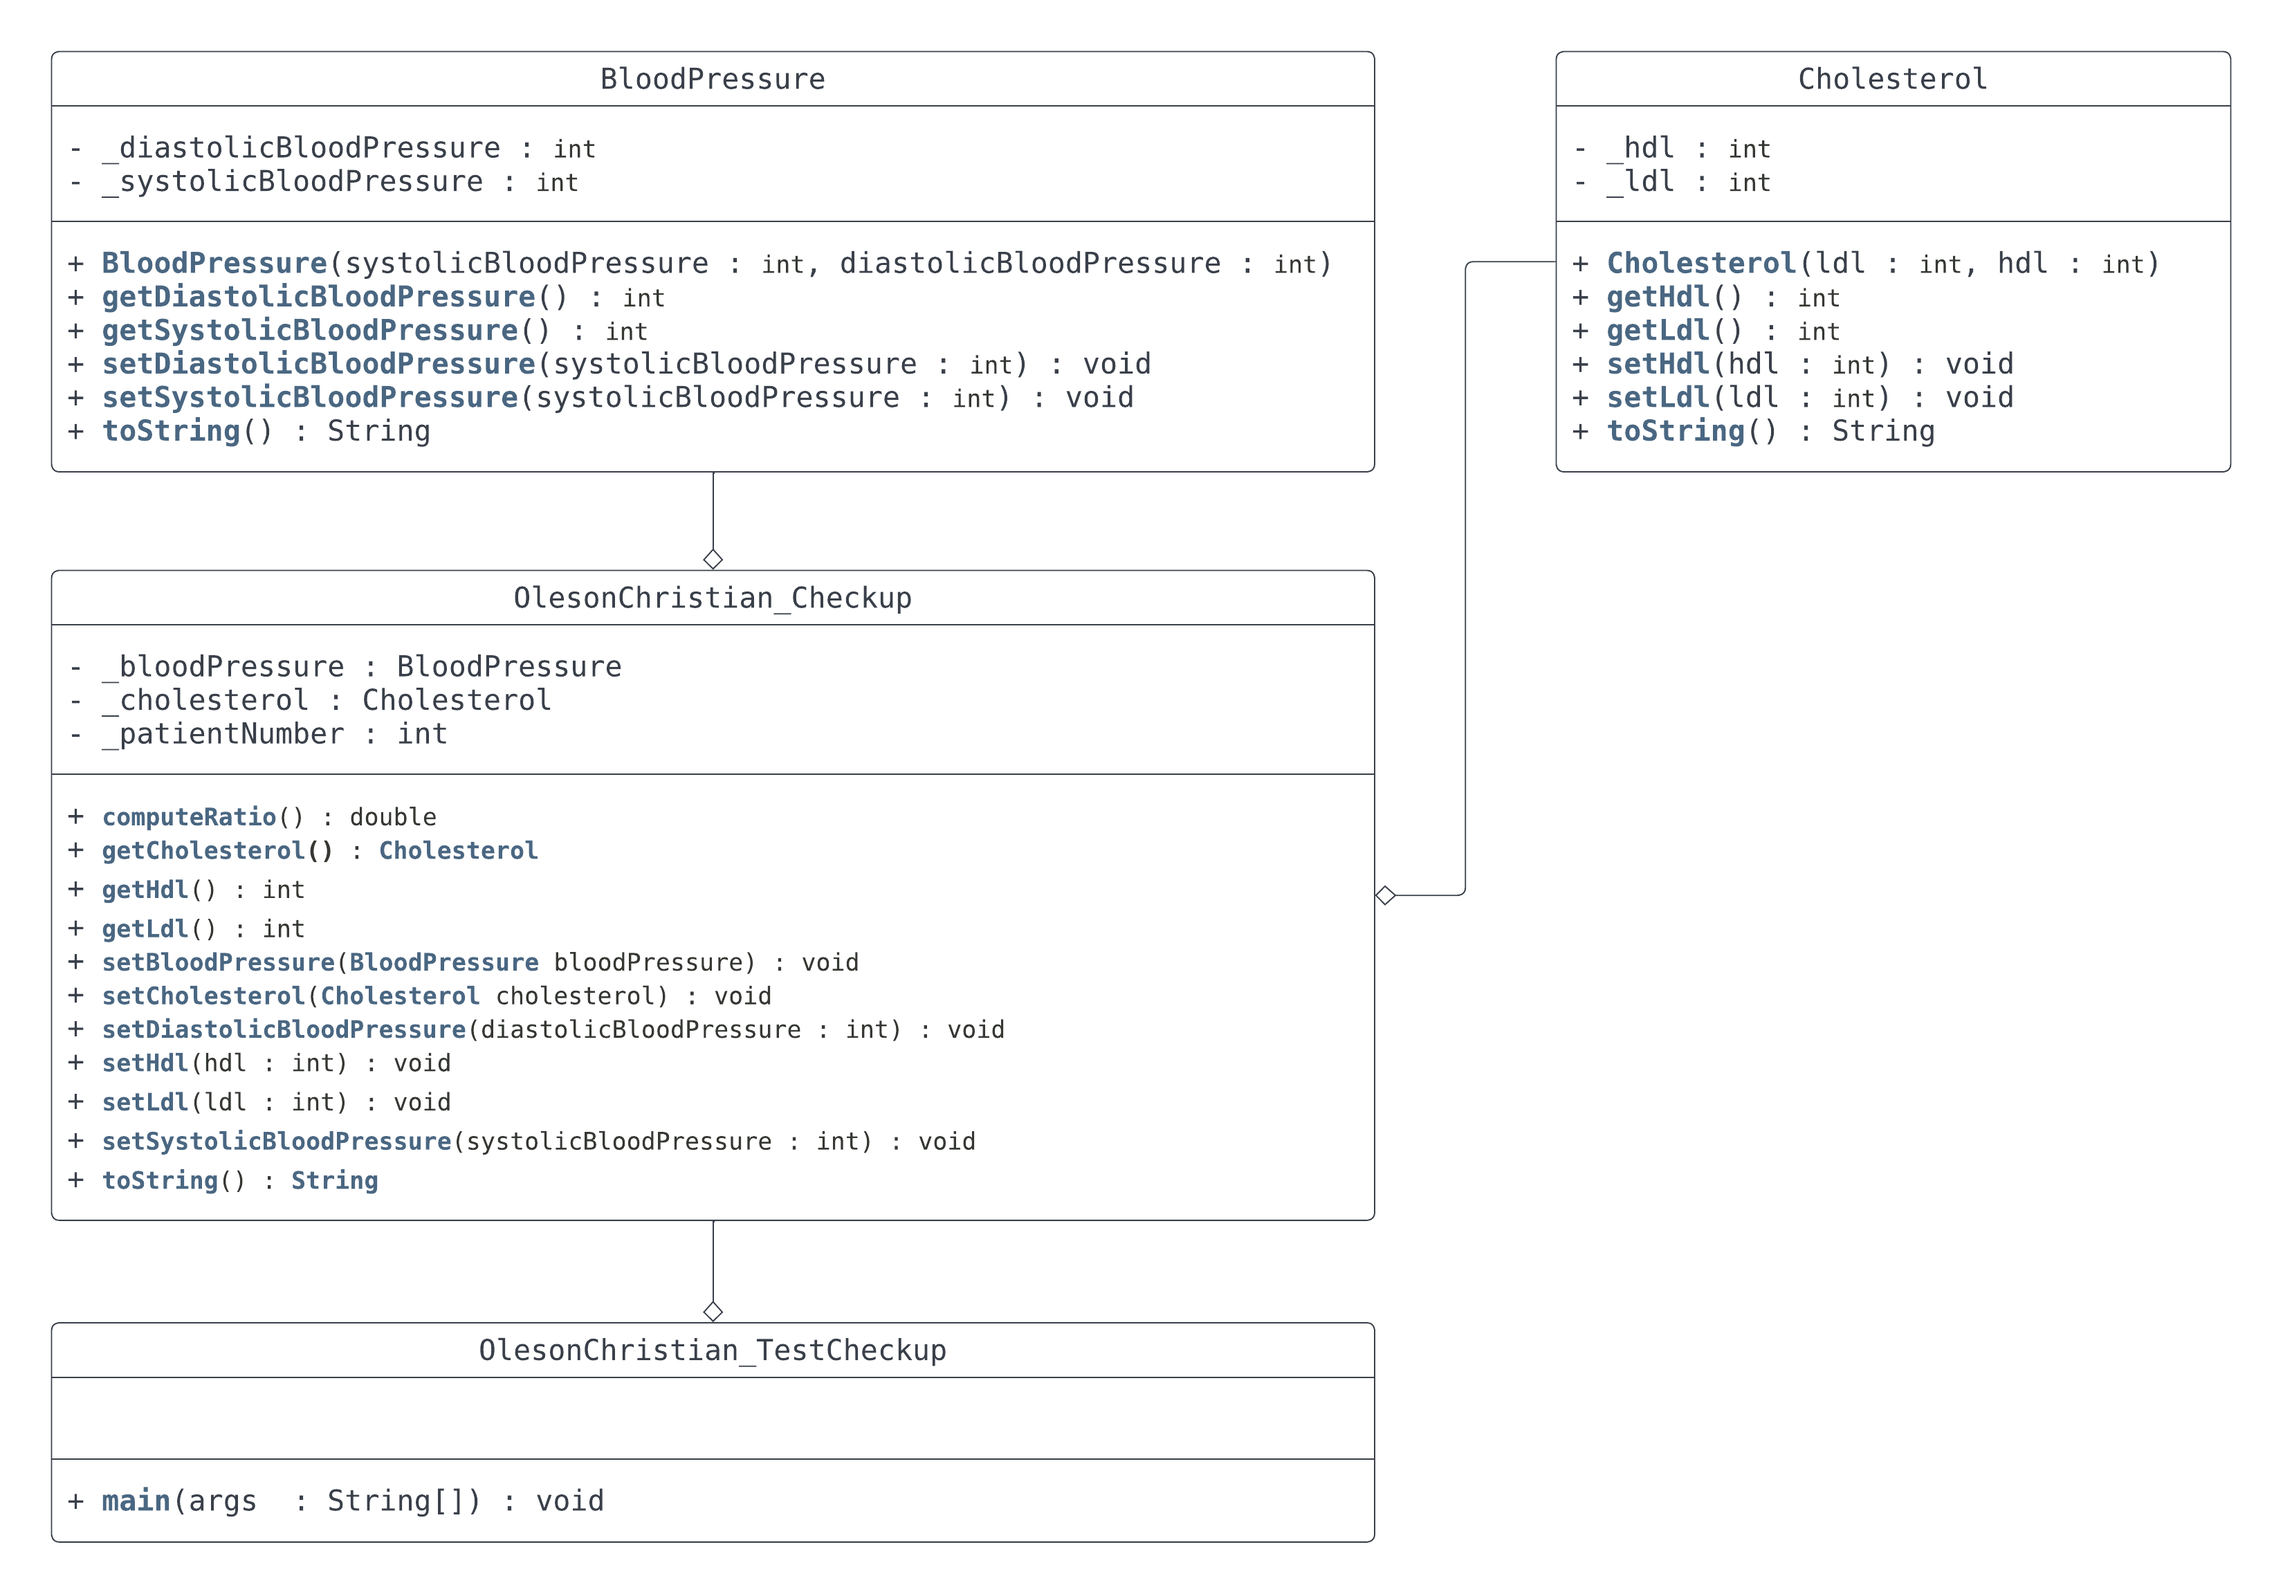
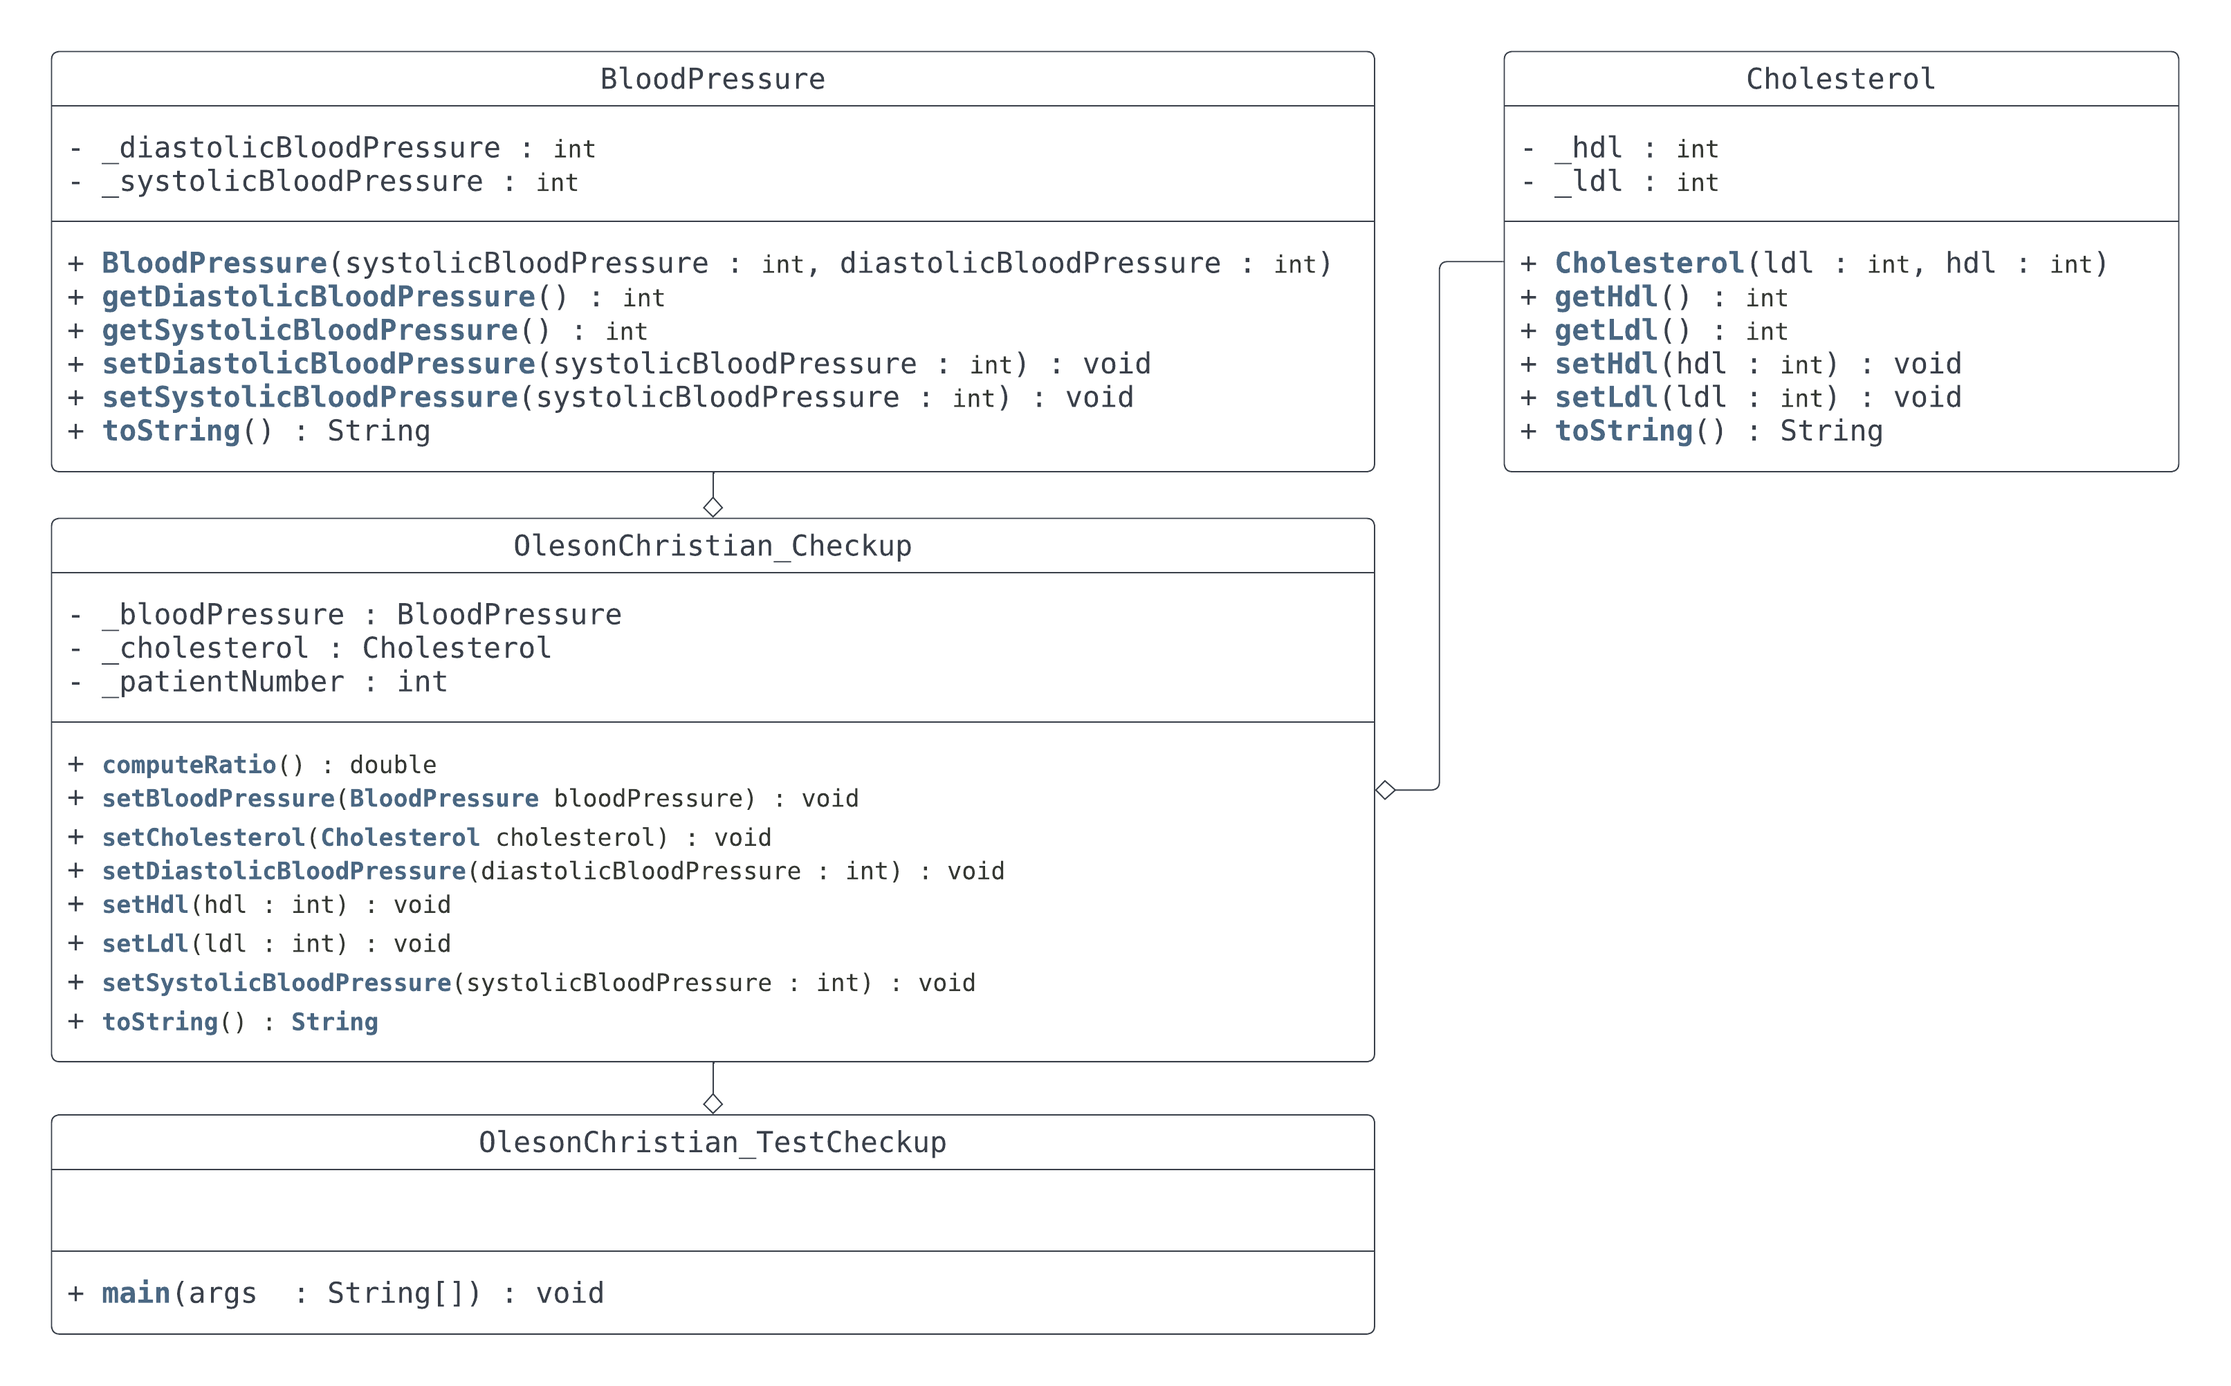
WIP

diff --git a/PA-3/PersonalAssignment3/src/OlesonChristian_Checkup.java b/PA-3/PersonalAssignment3/src/OlesonChristian_Checkup.java
@@ -1,7 +1,7 @@
 public class OlesonChristian_Checkup {
     private int _patientNumber;
-    private BloodPressure _bloodPressure;
-    private Cholesterol _cholesterol;
+    public BloodPressure _bloodPressure;
+    public Cholesterol _cholesterol;
 
     public OlesonChristian_Checkup(int patientNumber) {
         System.out.println("Creating new checkup for patient " + patientNumber);
@@ -11,82 +11,11 @@ public class OlesonChristian_Checkup {
     }
 
     /**
-     * Sets the Systolic Blood Pressure
-     */
-    public void setSystolicBloodPressure(int systolicBloodPressure) {
-        _bloodPressure.setSystolicBloodPressure(systolicBloodPressure);
-    }
-
-    /**
-     * Sets the Diastolic Blood Pressure
-     */
-    public void setDiastolicBloodPressure(int diastolicBloodPressure) {
-        _bloodPressure.setDiastolicBloodPressure(diastolicBloodPressure);
-    }
-
-    /**
-     * Sets the Blood Pressure
-     */
-    public void setBloodPressure(BloodPressure bloodPressure) {
-        System.out.println("Setting blood pressure to " + bloodPressure);
-        _bloodPressure = bloodPressure;
-    }
-
-    /**
-     * Sets the LDL
-     */
-    public void setLdl(int ldl) {
-        _cholesterol.setLdl(ldl);
-    }
-
-    /**
-     * Sets the HDL
-     */
-    public void setHdl(int hdl) {
-        _cholesterol.setHdl(hdl);
-    }
-
-    /**
-     * Sets the Cholesterol
-     */
-    public void setCholesterol(Cholesterol cholesterol) {
-        System.out.println("Setting cholesterol to " + cholesterol);
-        _cholesterol = cholesterol;
-    }
-
-    /**
-     * Gets the LDL
-     * @return the LDL
-     */
-    public int getLdl() {
-        System.out.println("Getting LDL");
-        return _cholesterol.getLdl();
-    }
-
-    /**
-     * Gets the HDL
-     * @return the HDL
-     */
-    public int getHdl() {
-        System.out.println("Getting HDL");
-        return _cholesterol.getHdl();
-    }
-
-    /**
-     * Gets the Cholesterol
-     * @return the cholesterol
-     */
-    public Cholesterol getCholesterol() {
-        System.out.println("Getting cholesterol");
-        return _cholesterol;
-    }
-
-    /**
      * @return Computers the ratio of HDL to LDL.
      */
     public double computeRatio() {
         System.out.println("Computing ratio...");
-        return (double) getHdl() / (double) getLdl();
+        return (double) _cholesterol.getHdl() / (double) _cholesterol.getLdl();
     }
 
     /**

diff --git a/PA-3/PersonalAssignment3/src/OlesonChristian_TestCheckup.java b/PA-3/PersonalAssignment3/src/OlesonChristian_TestCheckup.java
@@ -5,23 +5,19 @@
 public class OlesonChristian_TestCheckup {
     public static void main(String[] args) {
         var checkup = new OlesonChristian_Checkup(1);
-        checkup.setSystolicBloodPressure(120);
-        checkup.setDiastolicBloodPressure(80);
-        checkup.setBloodPressure(new BloodPressure(120, 80));
-        checkup.setLdl(100);
-        checkup.setHdl(50);
-        checkup.setCholesterol(new Cholesterol(1, 50));
+        checkup._bloodPressure.setSystolicBloodPressure(120);
+        checkup._bloodPressure.setDiastolicBloodPressure(80);
+        checkup._cholesterol.setLdl(100);
+        checkup._cholesterol.setHdl(50);
         System.out.println(checkup);
         System.out.println();
         System.out.println("----------------------------------------------------");
         System.out.println();
         var secondCheckup = new OlesonChristian_Checkup(2);
-        secondCheckup.setSystolicBloodPressure(140);
-        secondCheckup.setDiastolicBloodPressure(90);
-        secondCheckup.setBloodPressure(new BloodPressure(140, 90));
-        secondCheckup.setLdl(110);
-        secondCheckup.setHdl(60);
-        secondCheckup.setCholesterol(new Cholesterol(20, 60));
+        secondCheckup._bloodPressure.setSystolicBloodPressure(140);
+        secondCheckup._bloodPressure.setDiastolicBloodPressure(90);
+        secondCheckup._cholesterol.setLdl(110);
+        secondCheckup._cholesterol.setHdl(60);
         System.out.println(secondCheckup);
     }
 }

diff --git a/PA-3/PersonalAssignment3/src/BloodPressure.java b/PA-3/PersonalAssignment3/src/BloodPressure.java
@@ -28,6 +28,7 @@ public class BloodPressure {
      * @param systolicBloodPressure the Systolic Blood Pressure to set
      */
     public void setSystolicBloodPressure(int systolicBloodPressure) {
+        System.out.println("Setting Systolic Blood Pressure...");
         _systolicBloodPressure = systolicBloodPressure;
     }
 
@@ -36,6 +37,7 @@ public class BloodPressure {
      * @param diastolicBloodPressure the Diastolic Blood Pressure to set
      */
     public void setDiastolicBloodPressure(int diastolicBloodPressure) {
+        System.out.println("Setting Diastolic Blood Pressure...");
         _diastolicBloodPressure = diastolicBloodPressure;
     }
 
@@ -43,6 +45,7 @@ public class BloodPressure {
      * @return the string representation of the blood pressure
      */
     public String toString() {
+        System.out.println("Printing blood pressure...");
         return "Blood Pressure [ \n\tSystolic Blood Pressure: " + _systolicBloodPressure + ", \n\tDiastolic Blood Pressure: " + _diastolicBloodPressure + "\n]";
     }
 }

diff --git a/PA-3/PersonalAssignment3/src/Cholesterol.java b/PA-3/PersonalAssignment3/src/Cholesterol.java
@@ -12,6 +12,7 @@ public class Cholesterol {
      * @return LDL
      */
     public int getLdl() {
+        System.out.println("Getting LDL...");
         return _ldl;
     }
 
@@ -20,6 +21,7 @@ public class Cholesterol {
      * @return HDL
      */
     public int getHdl() {
+        System.out.println("Getting HDL...");
         return _hdl;
     }
 
@@ -28,6 +30,7 @@ public class Cholesterol {
      * @param ldl the LDL to set
      */
     public void setLdl(int ldl) {
+        System.out.println("Setting LDL...");
         _ldl = ldl;
     }
 
@@ -36,6 +39,7 @@ public class Cholesterol {
      * @param hdl the HDL to set
      */
     public void setHdl(int hdl) {
+        System.out.println("Setting HDL...");
         _hdl = hdl;
     }
 
@@ -43,6 +47,7 @@ public class Cholesterol {
      * @return the string representation of the cholesterol
      */
     public String toString() {
+        System.out.println("Printing cholesterol...");
         return "Cholesterol [\n\tLDL: " + _ldl + ",\n\tHDL: " + _hdl + "\n]";
     }
 }
